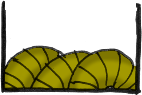
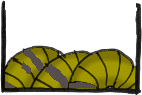
Vague art for pipes + taped pipes

Changed region(s): [[0.1408, 0.5263, 0.6761, 0.9474], [0.1408, 0.6316, 0.2254, 0.7789], [0.0282, 0.8632, 0.1127, 0.9263]]

diff --git a/gamelib/scenes/mess.py b/gamelib/scenes/mess.py
@@ -147,7 +147,7 @@ class Tubes(Thing):
     INTERACTS = {
         "blocked": InteractImage(250, 130, "blocking_broccoli.png"),
         "broken": InteractImage(250, 183, "broken_tubes.png"),
-        "replaced": InteractImage(250, 183, "fixed_tubes.png"),
+        "replaced": InteractImage(250, 183, "replaced_tubes.png"),
         "fixed": InteractImage(252, 183, "fixed_tubes.png"),
         }
 
@@ -193,7 +193,8 @@ class Tubes(Thing):
             self.set_interact("replaced")
             self.scene.set_data('life support status', 'replaced')
             return Result(
-                "The pipes slot neatly into place, but don't make an airtight seal."
+                "The pipes slot neatly into place, but don't make an airtight seal. "
+                "You think one of the pipes has cracked slightly as well."
             )
 
     def interact_with_duct_tape(self, item):
